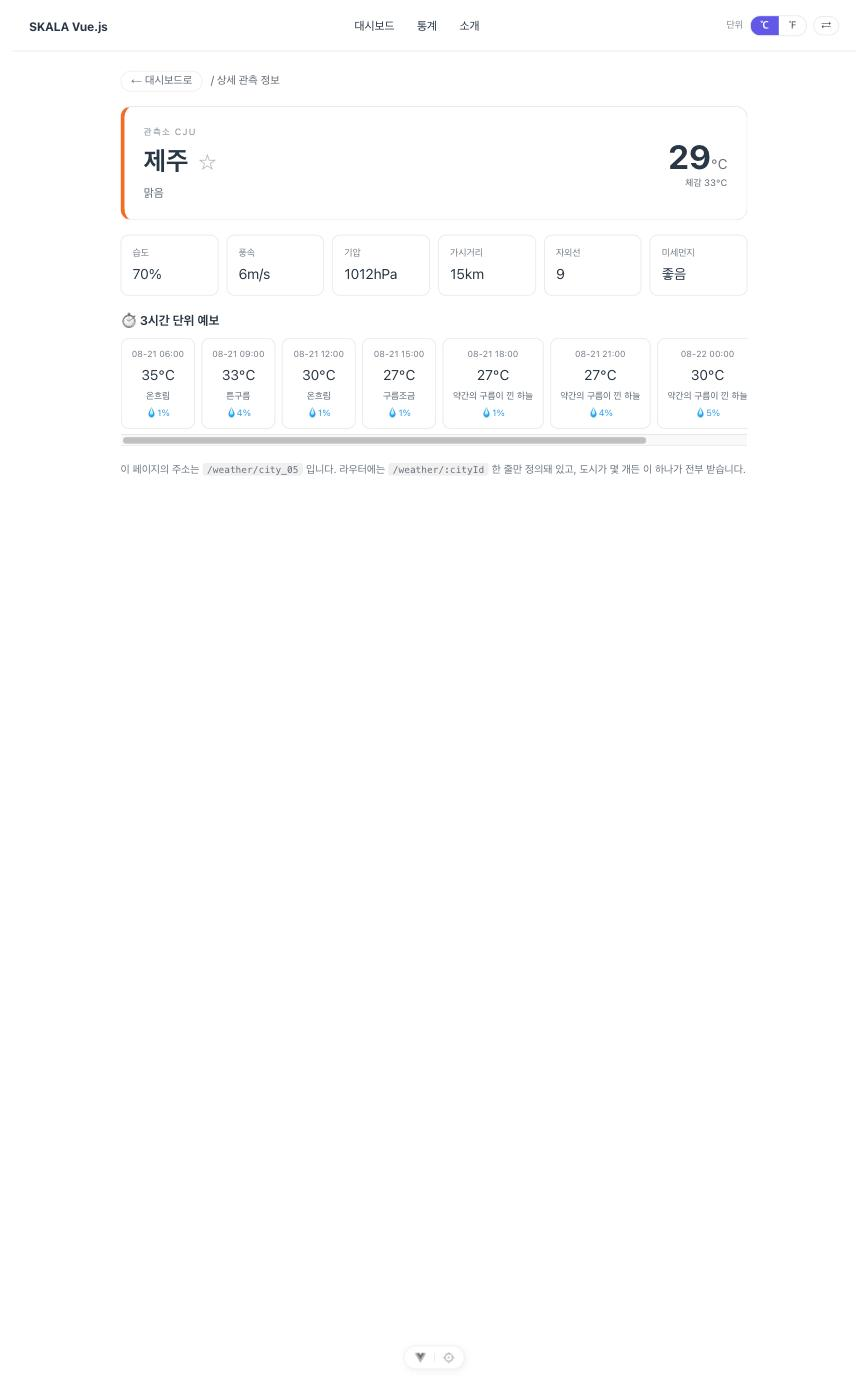
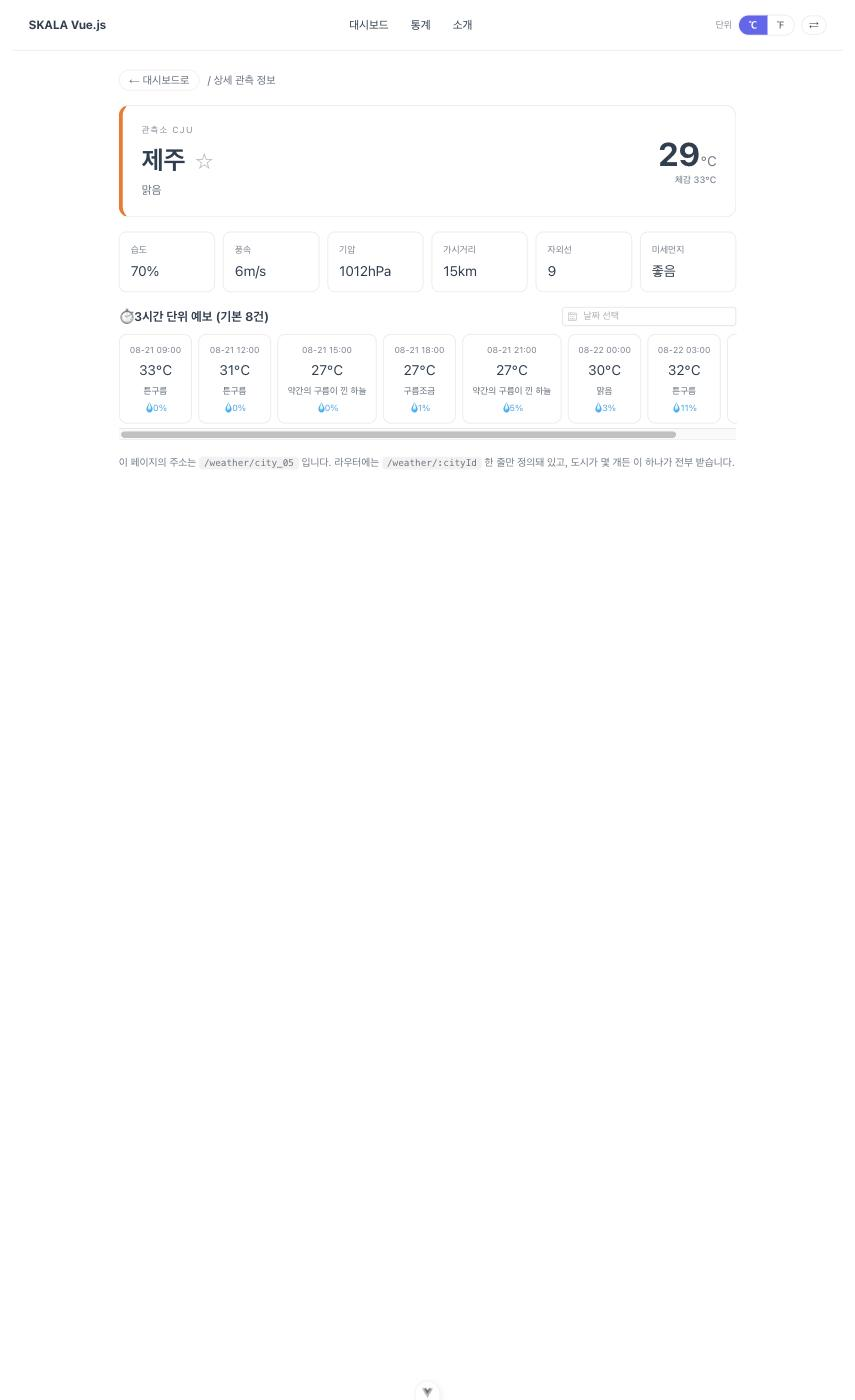
feat: 교재 249p Hands on - Weather UI Library (Element Plus)
element-plus@2.14.4 설치, main.js 전역 등록 (교재 236p).

★ el-date-picker 를 적용한 이유 — 예뻐서가 아니라 기능이 필요해서
  교수님 강조: "웹 라이브러리를 예쁘다고 쓰는 게 아니에요.
  그 안에 쓰이는 기능들이 있어요. 현재 날짜가 아니라 앞으로 특정한 날에
  날씨를 보고 싶다, 그러면 그 날짜 선택하는 컨트롤을 쓰면 되는 거지."

  문제: /forecast 는 5일치를 3시간 간격으로 40건 주는데
        화면은 앞 8건만 쓰고 나머지 4일치를 버리고 있었다.
  해결: 날짜를 고를 수 있으면 40건을 전부 쓴다.

  disabledDate 로 예보가 있는 날짜만 선택 가능하게 했다.
  "고를 수는 있는데 결과가 없다" 보다 "애초에 못 고른다" 가 낫다.

weatherStore 확장:
  loadForecast 가 40건 전부 보관하도록 변경 (기존 slice(0,8) 제거)
  availableDates(cityId)  선택 가능한 날짜 목록 → disabledDate 에 사용
  forecastByDate(cityId, date)  날짜별 필터 (미선택 시 앞 8건)

연습장 246~248p Code Challenge:
  ElementPlus.vue — el-card / el-input(clearable) / el-switch / el-button /
  el-input-number / el-rate / el-progress / ElMessage / ElMessageBox.confirm

⚠ 작업 중 실수 기록
  prettier 가 이미 한 줄로 포맷한 코드를 여러 줄 기준으로 치환하려 해
  replace 가 조용히 실패했다. 그런데 성공 메시지를 출력해 버려
  브라우저에서 "제목이 비어 있고 예보가 40건" 인 것을 보고서야 발견했다.
  ESLint 도 template 의 미정의 변수를 잡지 못했다.
  → 치환 후에는 반드시 정의 여부를 grep 으로 확인하도록 절차를 바꿨다.

검증 (개발서버):
  선택 전  "3시간 단위 예보 (기본 8건)" 8건, 08-21 09:00~
  8/23 선택 "2026-08-23 예보" 8건, 08-23 00:00~21:00 로 정확히 필터링
  ESLint 0 error, build 성공

diff --git a/src/views/WeatherDetailView.vue b/src/views/WeatherDetailView.vue
@@ -60,8 +60,45 @@ onMounted(() => {
   if (found) weatherStore.loadForecast(cityId)
 })
 
-// 이 도시의 예보 목록 (API 키가 없으면 빈 배열)
-const forecast = computed(() => (city.value ? (weatherStore.forecastMap[city.value.id] ?? []) : []))
+/* ================================================================
+   [교재 249p] UI Library 적용 — el-date-picker 로 예보 날짜 선택
+   ================================================================
+   ▸ 교수님 강조
+     "웹 라이브러리를 예쁘다고 쓰는 게 아니에요. 그 안에 쓰이는 기능들이 있어요.
+      현재 날짜가 아니라 앞으로 특정한 날에 날씨를 보고 싶다,
+      그러면 그 날짜 선택하는 컨트롤을 쓰면 되는 거지."
+
+   ▸ 왜 이 컨트롤이 필요했나
+     /forecast 는 5일치를 3시간 간격으로 40건 준다.
+     그동안은 앞 8건(약 하루치)만 보여줬으므로 나머지 4일치가 낭비되고 있었다.
+     날짜를 고를 수 있어야 40건을 전부 쓸 수 있다.
+
+     달력 UI 를 직접 만들려면 월 이동·요일 배치·선택 상태·비활성 날짜 처리를
+     전부 짜야 한다. 라이브러리는 그걸 props 몇 개로 끝낸다.
+
+   ▸ disabledDate
+     예보가 없는 날(오늘 이전, 5일 이후)은 아예 못 고르게 막는다.
+     "고를 수는 있는데 결과가 없다" 보다 "애초에 못 고른다" 가 낫다.
+   ================================================================ */
+const selectedDate = ref('')
+
+// 예보가 존재하는 날짜만 선택 가능하게 한다
+const disabledDate = (date) => {
+  if (!city.value) return true
+  const y = date.getFullYear()
+  const m = String(date.getMonth() + 1).padStart(2, '0')
+  const d = String(date.getDate()).padStart(2, '0')
+  return !weatherStore.availableDates(city.value.id).includes(`${y}-${m}-${d}`)
+}
+
+// 선택한 날짜의 예보만 보여준다 (선택 전에는 앞 8건)
+const forecast = computed(() =>
+  city.value ? weatherStore.forecastByDate(city.value.id, selectedDate.value) : [],
+)
+
+const dateLabel = computed(() =>
+  selectedDate.value ? `${selectedDate.value} 예보` : '3시간 단위 예보 (기본 8건)',
+)
 
 // 교재 191p — router.back() 은 브라우저 뒤로가기와 같다.
 // 단, 주소창에 직접 URL 을 치고 들어온 경우 돌아갈 기록이 없을 수 있어
@@ -128,8 +165,20 @@ const displayFeels = computed(() =>
       </section>
 
       <!-- [요구사항 2] 3시간 단위 예보 (OpenWeatherMap /forecast API) -->
-      <section v-if="forecast.length" class="forecast">
-        <h3>⏱ 3시간 단위 예보</h3>
+      <section v-if="weatherStore.availableDates(city.id).length" class="forecast">
+        <div class="fc-head">
+          <h3>⏱ {{ dateLabel }}</h3>
+          <!-- 교재 249p — Element Plus 날짜 선택 컨트롤 -->
+          <el-date-picker
+            v-model="selectedDate"
+            type="date"
+            value-format="YYYY-MM-DD"
+            placeholder="날짜 선택"
+            :disabled-date="disabledDate"
+            size="small"
+            clearable
+          />
+        </div>
         <div class="fc-scroll">
           <div v-for="(f, i) in forecast" :key="i" class="fc">
             <span class="fc-time">{{ f.time }}</span>
@@ -169,10 +218,17 @@ const displayFeels = computed(() =>
 </template>
 
 <style scoped>
+.fc-head {
+  display: flex;
+  align-items: center;
+  justify-content: space-between;
+  gap: 12px;
+  flex-wrap: wrap;
+  margin-bottom: 10px;
+}
 .forecast h3 {
   font-size: 0.98rem;
   font-weight: 650;
-  margin-bottom: 10px;
 }
 .fc-scroll {
   display: flex;

diff --git a/src/stores/weatherStore.js b/src/stores/weatherStore.js
@@ -48,6 +48,21 @@ export const useWeatherStore = defineStore('weather', () => {
 
   const findCity = (cityId) => cities.value.find((c) => c.id === cityId)
 
+  /**
+   * [교재 249p] 특정 도시의 예보에서 **선택 가능한 날짜 목록**을 뽑는다.
+   * el-date-picker 의 disabledDate 에 넘겨, 예보가 없는 날은 못 고르게 막는다.
+   */
+  const availableDates = (cityId) => {
+    const list = forecastMap.value[cityId] ?? []
+    return [...new Set(list.map((f) => f.date))]
+  }
+
+  /** 특정 도시·특정 날짜의 3시간 단위 예보만 골라낸다 */
+  const forecastByDate = (cityId, date) => {
+    const list = forecastMap.value[cityId] ?? []
+    return date ? list.filter((f) => f.date === date) : list.slice(0, 8)
+  }
+
   /* ── actions ── */
 
   /**
@@ -105,11 +120,16 @@ export const useWeatherStore = defineStore('weather', () => {
 
     try {
       const data = await fetchForecast(city.english)
-      forecastMap.value[cityId] = data.list.slice(0, 8).map((it) => ({
-        time: it.dt_txt.slice(5, 16).replace(' ', ' '),
+      // 40건(5일 × 3시간) 전부 보관한다.
+      // 화면은 앞 8건만 보여주지만, 날짜 선택 기능이 나머지를 쓴다.
+      forecastMap.value[cityId] = data.list.map((it) => ({
+        date: it.dt_txt.slice(0, 10), // 'YYYY-MM-DD'
+        time: it.dt_txt.slice(5, 16),
+        hour: it.dt_txt.slice(11, 16),
         temp: Math.round(it.main.temp),
         status: it.weather?.[0]?.description ?? '',
         pop: Math.round((it.pop ?? 0) * 100),
+        humidity: it.main.humidity,
       }))
       console.log(`[weatherStore] ${city.name} 예보 ${forecastMap.value[cityId].length}건 수신`)
     } catch (error) {
@@ -127,6 +147,8 @@ export const useWeatherStore = defineStore('weather', () => {
     apiKeyReady,
     statusLabel,
     findCity,
+    availableDates,
+    forecastByDate,
     loadAllWeather,
     loadForecast,
   }

diff --git a/src/main.js b/src/main.js
@@ -3,6 +3,10 @@ import './assets/main.css'
 import { createApp } from 'vue'
 import { createPinia } from 'pinia'
 
+// 🟢 Element Plus 모듈 및 필수 CSS Import (교재 236p)
+import ElementPlus from 'element-plus'
+import 'element-plus/dist/index.css'
+
 import App from './App.vue'
 import router from './router'
 
@@ -10,5 +14,7 @@ const app = createApp(App)
 
 app.use(createPinia())
 app.use(router)
+
+app.use(ElementPlus) // 🟢 Vue 앱에 Element Plus 사용 등록
 
 app.mount('#app')
